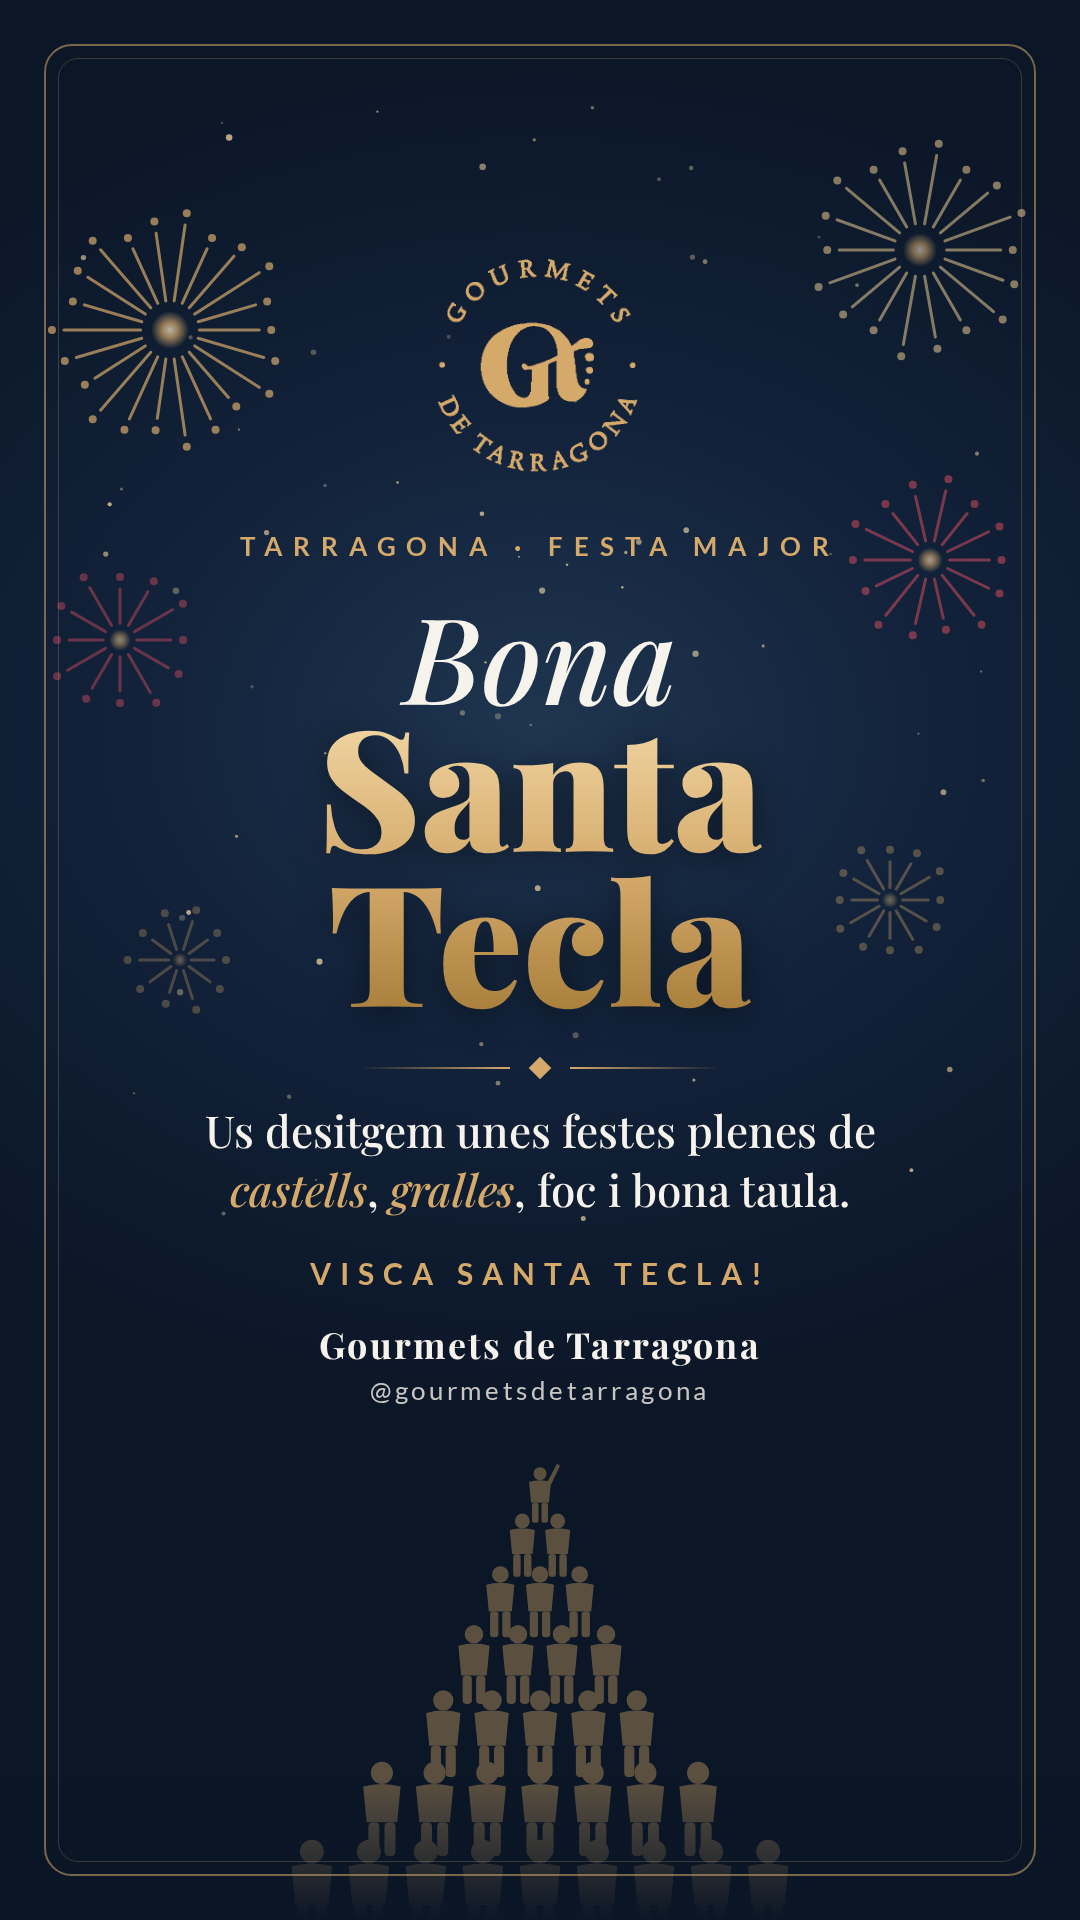
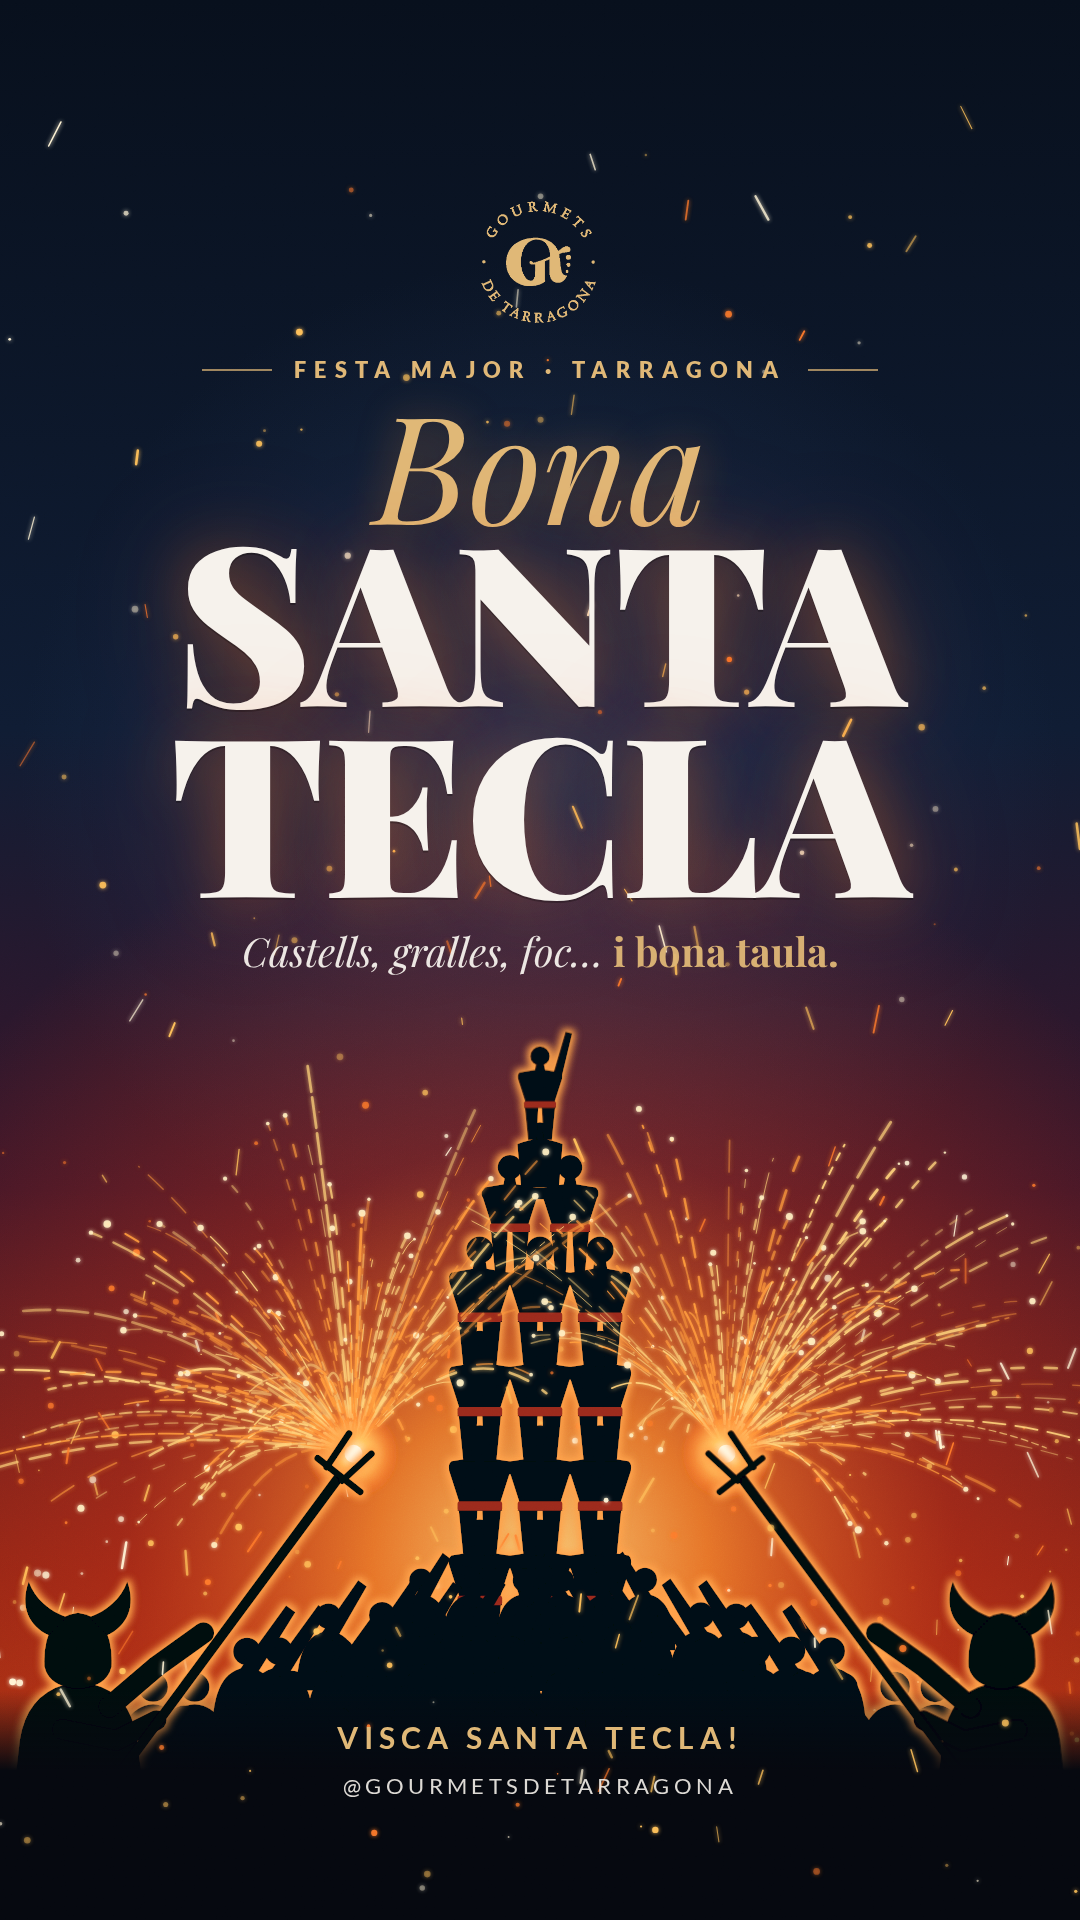
Redissenya la story de Santa Tecla: cartell amb castell, correfoc i diables
Claude-Session: https://claude.ai/code/session_014pDWm3kkSFGMsPEAmkDJ7Y

diff --git a/assets/img/social/santa-tecla-story.html b/assets/img/social/santa-tecla-story.html
@@ -1,88 +1,171 @@
 <!doctype html>
 <html lang="ca"><head><meta charset="utf-8">
 <title>Bona Santa Tecla</title>
-<link href="https://fonts.googleapis.com/css2?family=Playfair+Display:ital,wght@0,500;0,700;0,900;1,500;1,700&family=Lato:wght@400;700&display=swap" rel="stylesheet">
+<link href="https://fonts.googleapis.com/css2?family=Playfair+Display:ital,wght@0,700;0,900;1,400;1,700&family=Lato:wght@400;700;900&display=swap" rel="stylesheet">
 <style>
-:root{--navy:#0b1626;--navy2:#1c2e3e;--gold:#d4a96a;--gold2:#B8924A;--cream:#F6F2EC;--wine:#8e2a3a;}
+:root{--navy:#0b1626;--gold:#e0b877;--gold2:#B8924A;--cream:#F6F2EC;}
 *{margin:0;padding:0;box-sizing:border-box}
 html,body{width:1080px;height:1920px;background:var(--navy)}
-.story{position:relative;width:1080px;height:1920px;overflow:hidden;
-  background:radial-gradient(ellipse 900px 700px at 50% 38%,#1f3550 0%,#12223a 45%,var(--navy) 100%);
-  color:var(--cream);font-family:Lato,sans-serif;text-align:center}
-svg.bg{position:absolute;inset:0}
-.frame{position:absolute;inset:44px;border:2px solid rgba(212,169,106,.55);border-radius:28px}
-.frame::after{content:"";position:absolute;inset:12px;border:1px solid rgba(212,169,106,.25);border-radius:20px}
-.logo{position:absolute;top:250px;left:50%;transform:translateX(-50%);width:230px;height:227px;
+.story{position:relative;width:1080px;height:1920px;overflow:hidden;color:var(--cream);font-family:Lato,sans-serif;text-align:center}
+svg.scene{position:absolute;inset:0}
+.logo{position:absolute;top:196px;left:50%;transform:translateX(-50%);width:132px;height:130px;
   background:var(--gold);-webkit-mask:url(../logo.png) center/contain no-repeat;mask:url(../logo.png) center/contain no-repeat}
-.kicker{position:absolute;top:530px;width:100%;font-weight:700;letter-spacing:.42em;font-size:26px;color:var(--gold);text-transform:uppercase}
-.bona{position:absolute;top:575px;width:100%;font-family:'Playfair Display',serif;font-style:italic;font-weight:500;font-size:120px;color:var(--cream)}
-.st{position:absolute;top:705px;width:100%;font-family:'Playfair Display',serif;font-weight:900;font-size:168px;line-height:.92;
-  background:linear-gradient(180deg,#f3d9a6 0%,#d4a96a 55%,#a97f3c 100%);-webkit-background-clip:text;background-clip:text;color:transparent;
-  filter:drop-shadow(0 6px 18px rgba(0,0,0,.45))}
-.orn{position:absolute;top:1060px;left:50%;transform:translateX(-50%);display:flex;align-items:center;gap:22px}
-.orn i{display:block;width:150px;height:2px;background:linear-gradient(90deg,transparent,var(--gold))}
-.orn i:last-child{transform:scaleX(-1)}
-.orn b{width:16px;height:16px;background:var(--gold);transform:rotate(45deg)}
-.msg{position:absolute;top:1100px;left:130px;right:130px;font-family:'Playfair Display',serif;font-size:44px;line-height:1.35;color:var(--cream)}
-.msg em{color:var(--gold);font-style:italic}
-.visca{position:absolute;top:1255px;width:100%;font-weight:700;letter-spacing:.3em;font-size:30px;color:var(--gold);text-transform:uppercase}
-.sign{position:absolute;top:1320px;width:100%;font-size:26px;letter-spacing:.14em;color:rgba(246,242,236,.85)}
-.sign{color:rgba(246,242,236,.8)}.sign strong{display:block;font-family:'Playfair Display',serif;letter-spacing:.06em;font-size:36px;color:var(--cream);margin-bottom:6px;font-weight:700}
+.kicker{position:absolute;top:356px;width:100%;display:flex;justify-content:center;align-items:center;gap:22px;
+  font-weight:900;letter-spacing:.38em;font-size:22px;color:var(--gold);text-transform:uppercase}
+.kicker i{display:block;width:70px;height:2px;background:var(--gold);opacity:.7}
+.bona{position:absolute;top:388px;width:100%;font-family:'Playfair Display',serif;font-style:italic;font-weight:400;font-size:150px;
+  color:var(--gold);line-height:1;text-shadow:0 0 40px rgba(255,150,60,.35)}
+.st{position:absolute;top:520px;width:100%;font-family:'Playfair Display',serif;font-weight:900;font-size:222px;line-height:.86;
+  letter-spacing:-.01em;text-transform:uppercase;color:var(--cream);
+  text-shadow:0 2px 0 rgba(0,0,0,.25),0 0 60px rgba(255,120,40,.35),0 0 120px rgba(255,90,30,.25)}
+.msg{position:absolute;top:925px;left:0;right:0;font-family:'Playfair Display',serif;font-style:italic;font-size:40px;line-height:1.3;color:var(--cream);opacity:.95}
+.msg b{font-style:normal;font-weight:700;color:var(--gold)}
+.sign{position:absolute;top:1712px;width:100%;font-weight:700;font-size:25px;letter-spacing:.24em;text-transform:uppercase;color:var(--cream)}
+.sign span{color:var(--gold);font-size:30px}.sign small{font-size:22px;letter-spacing:.2em;font-weight:400;opacity:.9}.sign{line-height:1.7}
 </style></head><body>
 <div class="story">
-<svg class="bg" viewBox="0 0 1080 1920" xmlns="http://www.w3.org/2000/svg">
+<svg class="scene" viewBox="0 0 1080 1920" xmlns="http://www.w3.org/2000/svg">
   <defs>
-    <radialGradient id="spark"><stop offset="0" stop-color="#fff3d6"/><stop offset=".4" stop-color="#d4a96a"/><stop offset="1" stop-color="#d4a96a" stop-opacity="0"/></radialGradient>
-    <linearGradient id="fade" x1="0" y1="0" x2="0" y2="1"><stop offset="0" stop-color="#0b1626" stop-opacity="0"/><stop offset="1" stop-color="#0b1626"/></linearGradient>
+    <linearGradient id="sky" x1="0" y1="0" x2="0" y2="1">
+      <stop offset="0" stop-color="#070f1c"/><stop offset=".38" stop-color="#0f1c33"/>
+      <stop offset=".62" stop-color="#3a1428"/><stop offset=".82" stop-color="#8a2314"/><stop offset="1" stop-color="#c2410f"/>
+    </linearGradient>
+    <radialGradient id="glow" cx="540" cy="1560" r="760" gradientUnits="userSpaceOnUse">
+      <stop offset="0" stop-color="#ffd27a" stop-opacity=".95"/><stop offset=".22" stop-color="#ff8a2e" stop-opacity=".8"/>
+      <stop offset=".55" stop-color="#d9361a" stop-opacity=".35"/><stop offset="1" stop-color="#d9361a" stop-opacity="0"/>
+    </radialGradient>
+    <radialGradient id="halo" cx="540" cy="780" r="520" gradientUnits="userSpaceOnUse">
+      <stop offset="0" stop-color="#2a3f63" stop-opacity=".55"/><stop offset="1" stop-color="#2a3f63" stop-opacity="0"/>
+    </radialGradient>
+    <radialGradient id="spk"><stop offset="0" stop-color="#fff6dc"/><stop offset=".35" stop-color="#ffc561"/><stop offset="1" stop-color="#ff6a1f" stop-opacity="0"/></radialGradient>
+    <filter id="soft" x="-50%" y="-50%" width="200%" height="200%"><feGaussianBlur stdDeviation="2.2" result="b"/><feMerge><feMergeNode in="b"/><feMergeNode in="SourceGraphic"/></feMerge></filter>
+    <filter id="rim" x="-10%" y="-10%" width="120%" height="120%">
+      <feMorphology in="SourceAlpha" operator="dilate" radius="2.5" result="d"/>
+      <feFlood flood-color="#ffa04a"/><feComposite in2="d" operator="in" result="edge"/>
+      <feGaussianBlur in="edge" stdDeviation="3.5" result="eb"/>
+      <feMerge><feMergeNode in="eb"/><feMergeNode in="SourceGraphic"/></feMerge>
+    </filter>
+    <filter id="grain"><feTurbulence type="fractalNoise" baseFrequency=".9" numOctaves="3" stitchTiles="stitch"/><feColorMatrix type="saturate" values="0"/></filter>
+    <linearGradient id="ground" x1="0" y1="0" x2="0" y2="1"><stop offset="0" stop-color="#05080f" stop-opacity="0"/><stop offset=".35" stop-color="#05080f"/></linearGradient>
   </defs>
-  <!-- focs artificials -->
-  <g id="fw" stroke-linecap="round">
-    <g transform="translate(180,300)" stroke="#d4a96a" stroke-width="3" opacity=".75"></g>
-  </g>
-  <!-- castell -->
-  <g id="castell" fill="#d4a96a" opacity=".4"></g>
-  <rect x="0" y="1780" width="1080" height="140" fill="url(#fade)"/>
+  <rect width="1080" height="1920" fill="url(#sky)"/>
+  <rect width="1080" height="1920" fill="url(#halo)"/>
+  <rect width="1080" height="1920" fill="url(#glow)"/>
+  <g id="smoke" opacity=".22"></g>
+  <g id="sparksBack" filter="url(#soft)"></g>
+  <g id="castell" fill="#060a13" filter="url(#rim)"></g>
+  <g id="fountains" filter="url(#soft)"></g>
+  <g id="devils" fill="#04070d" filter="url(#rim)"></g>
+  <rect x="0" y="1690" width="1080" height="230" fill="url(#ground)"/>
+  <g id="sparksFront" filter="url(#soft)"></g>
+  <rect width="1080" height="1920" filter="url(#grain)" opacity=".09" style="mix-blend-mode:overlay"/>
 </svg>
-<div class="frame"></div>
 <div class="logo"></div>
-<div class="kicker">Tarragona · Festa Major</div>
+<div class="kicker"><i></i>Festa Major · Tarragona<i></i></div>
 <div class="bona">Bona</div>
 <div class="st">Santa<br>Tecla</div>
-<div class="orn"><i></i><b></b><i></i></div>
-<p class="msg">Us desitgem unes festes plenes de <em>castells</em>, <em>gralles</em>, foc i bona taula.</p>
-<div class="visca">Visca Santa Tecla!</div>
-<div class="sign"><strong>Gourmets de Tarragona</strong>@gourmetsdetarragona</div>
+<p class="msg">Castells, gralles, foc… <b>i bona taula.</b></p>
+<div class="sign"><span>Visca Santa Tecla!</span><br><small>@gourmetsdetarragona</small></div>
 </div>
 <script>
 const NS='http://www.w3.org/2000/svg';
 function el(t,a,p){const e=document.createElementNS(NS,t);for(const k in a)e.setAttribute(k,a[k]);p.appendChild(e);return e}
-// fireworks
-const fw=document.getElementById('fw');
-function burst(cx,cy,r,n,col,op){
-  const g=el('g',{opacity:op},fw);
-  for(let i=0;i<n;i++){const a=i/n*Math.PI*2, r1=r*.28, r2=r*(.85+(i%3)*.08);
-    el('line',{x1:cx+Math.cos(a)*r1,y1:cy+Math.sin(a)*r1,x2:cx+Math.cos(a)*r2,y2:cy+Math.sin(a)*r2,stroke:col,'stroke-width':3,'stroke-linecap':'round'},g);
-    el('circle',{cx:cx+Math.cos(a)*(r2+12),cy:cy+Math.sin(a)*(r2+12),r:4,fill:col},g);}
-  el('circle',{cx,cy,r:r*.18,fill:'url(#spark)'},g);
+let seed=11;const R=()=>{seed=(seed*16807)%2147483647;return (seed-1)/2147483646};
+const $=id=>document.getElementById(id);
+
+/* ---------- CASTELL (3 de 7 amb pinya) ---------- */
+const C=$('castell'), CX=540, s=1.18, STEP=80*s, SP=51*s;
+function person(x,y,sc,opt={}){ // feet at (x,y)
+  const g=el('g',{transform:`translate(${x},${y}) scale(${sc})`},C);
+  el('circle',{cx:0,cy:-99,r:11.5},g);
+  el('path',{d:'M-5,-89 L5,-89 L6,-83 L24,-80 Q27,-78 26,-72 L17,-44 L19,-38 L-19,-38 L-17,-44 L-26,-72 Q-27,-78 -24,-80 L-6,-83 Z'},g);
+  el('path',{d:'M-18,-40 L-2,-40 L-4,0 L-14,0 Z M2,-40 L18,-40 L14,0 L4,0 Z'},g);
+  el('rect',{x:-19,y:-46,width:38,height:8,rx:2,fill:'#9b2a1c'},g); // faixa
+  if(opt.aleta) el('path',{d:'M16,-80 L30,-128 L38,-126 L26,-76 Z'},g);
+  return g;
 }
-burst(170,330,105,22,'#d4a96a',.7);
-burst(920,250,95,18,'#e8c98f',.55);
-burst(930,560,70,14,'#c0485a',.6);
-burst(120,640,60,12,'#c0485a',.5);
-burst(890,900,45,12,'#d4a96a',.35);
-burst(180,960,40,10,'#d4a96a',.3);
-// sparkles
-let s=7;function rnd(){s=(s*9301+49297)%233280;return s/233280}
-for(let i=0;i<70;i++){el('circle',{cx:60+rnd()*960,cy:80+rnd()*1150,r:1+rnd()*2.4,fill:'#f3d9a6',opacity:.25+rnd()*.5},fw)}
-// castell: rows of stylised figures (pinya -> enxaneta)
-const c=document.getElementById('castell');
-function fig(x,y,s,arm){const g=el('g',{transform:`translate(${x},${y}) scale(${s})`},c);
-  el('circle',{cx:0,cy:-58,r:13},g);
-  el('path',{d:'M-22,-42 Q0,-48 22,-42 L18,0 L-18,0 Z'},g);
-  el('rect',{x:-16,y:0,width:13,height:40,rx:5},g);el('rect',{x:3,y:0,width:13,height:40,rx:5},g);
-  if(arm) el('path',{d:'M14,-40 L34,-78 L40,-74 L22,-36 Z'},g);}
-const base=1905, rows=[[9,.92],[7,.85],[5,.78],[4,.71],[3,.64],[2,.57],[1,.5]];
+const base=1650, rowsTronc=4;
 let y=base;
-rows.forEach(([n,sc],ri)=>{const w=62*sc;for(let i=0;i<n;i++)fig(540+(i-(n-1)/2)*w,y,sc,ri===rows.length-1);y-=90*sc;});
+for(let r=0;r<rowsTronc;r++){
+  for(let i=-1;i<=1;i++) person(CX+i*SP,y,s);
+  el('rect',{x:CX-SP-26*s,y:y-80*s,width:2*SP+52*s,height:11*s,rx:5*s},C); // braços enllaçats
+  y-=STEP;
+}
+person(CX-SP/2,y,s*.9); person(CX+SP/2,y,s*.9);                 // dosos
+el('rect',{x:CX-SP/2-24*s,y:y-80*s*.9,width:SP+48*s,height:10*s,rx:5},C);
+y-=STEP*.9;
+const ac=el('g',{transform:`translate(${CX},${y}) scale(${s*.8})`},C);    // acotxador ajupit
+el('circle',{cx:0,cy:-58,r:11},ac);el('path',{d:'M-24,-46 Q0,-56 24,-46 L20,0 L-20,0 Z'},ac);
+y-=50*s*.8;
+person(CX,y,s*.72,{aleta:true});                                    // enxaneta fent l'aleta
+
+// pinya: multitud de caps i espatlles amb braços amunt
+for(let row=0;row<5;row++){
+  const n=6+row*4, spread=110+row*95, yy=base-40+row*38;
+  for(let k=0;k<n;k++){
+    const x=CX+(k/(n-1)-.5)*2*spread+(R()-.5)*18; const sc=.95+row*.08+R()*.08;
+    const g=el('g',{transform:`translate(${x},${yy}) scale(${sc})`},C);
+    el('circle',{cx:0,cy:-30,r:12},g);
+    el('path',{d:'M-30,40 Q-30,-14 0,-16 Q30,-14 30,40 Z'},g);
+    const dir=x<CX?1:-1;
+    if(row<3) el('path',{d:`M${-8*dir},-12 L${(22+row*6)*dir},${-58-row*6} L${(30+row*6)*dir},${-52-row*6} L${6*dir},-6 Z`},g);
+  }
+}
+el('rect',{x:0,y:base+150,width:1080,height:400},C);
+
+/* ---------- DIABLES amb forques ---------- */
+const D=$('devils');
+function devil(x,y,sc,flip){
+  const g=el('g',{transform:`translate(${x},${y}) scale(${flip?-sc:sc},${sc})`},D);
+  el('path',{d:'M-74,0 L-52,-196 Q-46,-236 -12,-246 L14,-246 Q46,-238 52,-200 L80,0 L66,-14 L52,0 L38,-14 L24,0 L10,-14 L-4,0 L-18,-14 L-32,0 L-46,-14 L-60,0 Z'},g); // vestit amb serrells
+  el('path',{d:'M-30,-262 Q-32,-306 0,-310 Q32,-306 30,-262 Q26,-244 0,-242 Q-26,-244 -30,-262 Z'},g); // caputxa
+  el('path',{d:'M-26,-290 C-44,-298 -52,-316 -44,-338 C-38,-322 -26,-312 -10,-306 Z M26,-290 C44,-298 52,-316 44,-338 C38,-322 26,-312 10,-306 Z'},g); // banyes
+  const st={fill:'none',stroke:'#04070d','stroke-linecap':'round'};
+  el('path',{...st,d:'M28,-226 L70,-262 L112,-292','stroke-width':19},g);   // braç alt
+  el('path',{...st,d:'M-14,-206 L34,-196 L70,-214','stroke-width':18},g);   // braç baix
+  el('path',{...st,d:'M40,-170 L232,-430','stroke-width':9},g);             // pal
+  el('path',{...st,d:'M214,-448 L252,-418 M222,-440 L242,-470 M236,-428 L262,-452','stroke-width':6},g); // forca
+
+  return {x:x+(flip?-246:246)*sc, y:y-452*sc};
+}
+const tips=[devil(78,1960,1.12,false),devil(1002,1960,1.12,true)];
+
+/* ---------- FONTS DE FOC (carretilles) ---------- */
+const F=$('fountains');
+function fountain(t,dirX){
+  const g=el('g',{},F);
+  for(let i=0;i<120;i++){
+    const a=(-Math.PI/2)+(R()-.5)*2.3+dirX*.35, v=120+R()*300, L=.35+R()*.65;
+    const ex=t.x+Math.cos(a)*v, ey=t.y+Math.sin(a)*v;
+    const qx=t.x+Math.cos(a)*v*.55, qy=t.y+Math.sin(a)*v*.55-20;
+    const fall=40+R()*120;
+    el('path',{d:`M${t.x},${t.y} Q${qx},${qy} ${ex},${ey+fall*L}`,fill:'none',
+      stroke:R()<.5?'#ffd27a':'#ff9a3c','stroke-width':.8+R()*2,'stroke-linecap':'round',
+      'stroke-dasharray':`${6+R()*30} ${4+R()*20}`,opacity:.35+R()*.6},g);
+    if(R()<.5) el('circle',{cx:ex,cy:ey+fall*L,r:1.2+R()*2.6,fill:'#fff0c2',opacity:.9},g);
+  }
+  el('circle',{cx:t.x,cy:t.y,r:46,fill:'url(#spk)'},g);
+  el('circle',{cx:t.x,cy:t.y,r:9,fill:'#fffbe8'},g);
+}
+fountain(tips[0],-1); fountain(tips[1],1);
+
+/* ---------- ESPURNES ---------- */
+function sparks(group,n,ymin,ymax,bias){
+  const g=$(group);
+  for(let i=0;i<n;i++){
+    const yy=ymin+(ymax-ymin)*Math.pow(R(),bias), x=R()*1080;
+    const hot=R(); const col=hot<.25?'#fff4d6':hot<.7?'#ffc15a':'#ff7a2a';
+    if(R()<.35){const len=6+R()*22, a=-Math.PI/2+(R()-.5)*1.2;
+      el('line',{x1:x,y1:yy,x2:x+Math.cos(a)*len,y2:yy+Math.sin(a)*len,stroke:col,'stroke-width':1+R()*1.6,'stroke-linecap':'round',opacity:.5+R()*.5},g);}
+    else el('circle',{cx:x,cy:yy,r:.8+R()*2.8,fill:col,opacity:.35+R()*.65},g);
+  }
+}
+sparks('sparksBack',260,700,1750,.55);
+sparks('sparksBack',60,120,900,1);
+sparks('sparksFront',70,1350,1900,.8);
+
+// fum suau
+const S=$('smoke');
+for(let i=0;i<0;i++) el('ellipse',{cx:R()*1080,cy:1150+R()*450,rx:160+R()*200,ry:50+R()*60,fill:'#ffb36b',opacity:.15+R()*.2,filter:'url(#soft)'},S);
 </script>
 </body></html>
